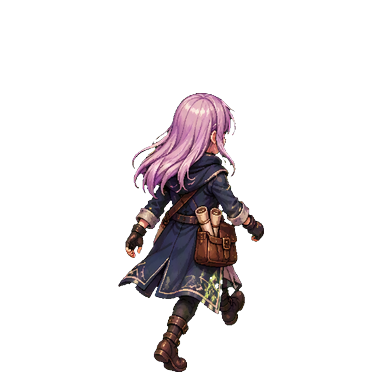
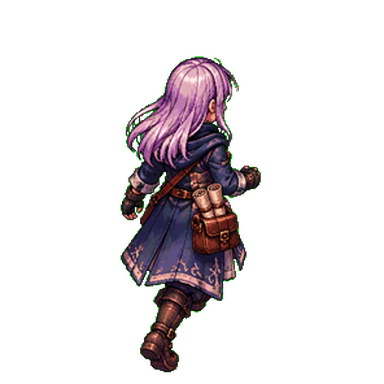
v97.96 Luna walks NE/SW: 13-frame village walk cycle
Slices the supplied 4x4 sheets into assets/village-town/npc/luna/{ne,sw}-walk1..13.webp (384x384 lossless), height matched to her stand sprite, feet on y=371, stray green key specks removed. SPR_INFO.luna.wn = {sw:13, ne:13}; SE/NW reuse them mirrored.

Changed region(s): [[0.3125, 0.125, 0.6875, 0.9688]]

diff --git a/village-town.html b/village-town.html
@@ -439,7 +439,7 @@ document.querySelectorAll('[data-game]').forEach(b=>b.onclick=()=>sendGame('menu
 
 document.addEventListener('pointerdown',()=>sendGame('input'),{capture:true});document.addEventListener('keydown',()=>sendGame('input'),{capture:true});
 rebuildRoads();heroRestore();renderList();fit();new ResizeObserver(fit).observe(stage);parent.postMessage({source:'project-a-town',type:'ready'},'*');document.fonts.ready.then(()=>terrainDirty=true);requestAnimationFrame(draw);const roadEdgeButton=$('roadEdgeStyle');if(roadEdgeButton){roadEdgeButton.onclick=()=>setRoadEdgeStyle(ROAD_EDGE_STYLE==='classic'?'texture':'classic');roadEdgeButton.textContent='ขอบถนน: '+(ROAD_EDGE_STYLE==='texture'?'ลายหินใหม่':'แบบเดิม');}
-</script><script src="js/village-layout-v67.js?v=82.14"></script><script src="js/village-grid.js?v=3"></script><script src="js/village-footprint.js?v=91.70"></script><script src="js/village-fence.js?v=1"></script><script src="js/town-ux.js?v=97.46"></script><script src="js/town-menu.js?v=72"></script><script src="js/village-biomes.js?v=72"></script><script src="js/village-forest.js?v=97.47"></script><script src="js/nature-alpha-masks.js"></script><script src="js/elements.js?v=97.50"></script><script src="js/world-state.js?v=97.76"></script><script src="js/villager-draw.js?v=97.90"></script><script src="js/village-life.js?v=97.76"></script><script src="js/village-lines.js?v=97.50"></script><script src="js/village-mind.js?v=97.34"></script><script src="js/town-npcs.js?v=97.40"></script><script src="js/town-quest.js?v=97.14"></script><script src="js/game-mood.js?v=74"></script><script src="js/hd2d.js?v=74"></script><script src="js/town-mood.js?v=91.74"></script><script src="js/village-frontage.js?v=83"></script><script src="js/proc-motion.js?v=81.8"></script><script src="js/github-push.js?v=97.93"></script><script src="js/village-asset-edit.js?v=97.47"></script><script>if(EDIT_PAGE&&window.TownPaint)GroundPaint.ui(TownPaint,{bar:()=>document.getElementById('townTools'),canvas:cv,toWorld:e=>world(e),before:()=>{TownUX.checkpoint();TownPaint.setClip?.(paintClip())},after:()=>TownUX.persist(),ensureEdit:()=>{if(!editing)$('edit').click()},onOpen:()=>{if(window.VillageAssetEdit?.placeId())VillageAssetEdit.leave();TownUX.setMode('object')}});</script><script src="js/editor-tools.js?v=91.77"></script><script src="js/asset-request.js?v=3"></script><script src="js/editor-auto.js?v=91.96"></script><script src="js/editor-layout.js?v=91.77"></script><script src="js/exit-edit.js?v=1"></script><script src="js/town-battle.js?v=97.78"></script><script src="js/console-ui.js?v=97.85"></script></html>
+</script><script src="js/village-layout-v67.js?v=82.14"></script><script src="js/village-grid.js?v=3"></script><script src="js/village-footprint.js?v=91.70"></script><script src="js/village-fence.js?v=1"></script><script src="js/town-ux.js?v=97.46"></script><script src="js/town-menu.js?v=72"></script><script src="js/village-biomes.js?v=72"></script><script src="js/village-forest.js?v=97.47"></script><script src="js/nature-alpha-masks.js"></script><script src="js/elements.js?v=97.50"></script><script src="js/world-state.js?v=97.76"></script><script src="js/villager-draw.js?v=97.96"></script><script src="js/village-life.js?v=97.76"></script><script src="js/village-lines.js?v=97.50"></script><script src="js/village-mind.js?v=97.34"></script><script src="js/town-npcs.js?v=97.40"></script><script src="js/town-quest.js?v=97.14"></script><script src="js/game-mood.js?v=74"></script><script src="js/hd2d.js?v=74"></script><script src="js/town-mood.js?v=91.74"></script><script src="js/village-frontage.js?v=83"></script><script src="js/proc-motion.js?v=81.8"></script><script src="js/github-push.js?v=97.93"></script><script src="js/village-asset-edit.js?v=97.47"></script><script>if(EDIT_PAGE&&window.TownPaint)GroundPaint.ui(TownPaint,{bar:()=>document.getElementById('townTools'),canvas:cv,toWorld:e=>world(e),before:()=>{TownUX.checkpoint();TownPaint.setClip?.(paintClip())},after:()=>TownUX.persist(),ensureEdit:()=>{if(!editing)$('edit').click()},onOpen:()=>{if(window.VillageAssetEdit?.placeId())VillageAssetEdit.leave();TownUX.setMode('object')}});</script><script src="js/editor-tools.js?v=91.77"></script><script src="js/asset-request.js?v=3"></script><script src="js/editor-auto.js?v=91.96"></script><script src="js/editor-layout.js?v=91.77"></script><script src="js/exit-edit.js?v=1"></script><script src="js/town-battle.js?v=97.78"></script><script src="js/console-ui.js?v=97.85"></script></html>
 
 
 <!-- Art sources and prompts: docs/ASSET_NOTES.txt. PNG objects are used for all buildings and props; roads and floor are native editable geometry. -->

diff --git a/index.html b/index.html
@@ -1,5 +1,5 @@
 <!doctype html><html lang="th"><head><meta charset="utf-8"><meta name="viewport" content="width=device-width,initial-scale=1"><meta name="theme-color" content="#f5ecd5"><title>Project A • ไพ่และการผจญภัย</title><link rel="stylesheet" href="css/style.css"><link rel="stylesheet" href="css/layout.css"><link rel="stylesheet" href="css/paper-cards.css"><link rel="stylesheet" href="css/game-ui.css"><link rel="stylesheet" href="css/workshop-layout.css"><link rel="stylesheet" href="css/combat-ui.css"><link rel="stylesheet" href="css/village.css"><link rel="stylesheet" href="css/location-actions.css"><link rel="stylesheet" href="css/journey.css"><link rel="stylesheet" href="css/interface-v02.css"><link rel="stylesheet" href="css/ivory-v03.css"><link rel="stylesheet" href="css/tactics.css?v=79"><link rel="stylesheet" href="css/polish-v05.css"><link rel="stylesheet" href="css/card-studio.css"><link rel="stylesheet" href="css/battle-full.css"><link rel="stylesheet" href="css/adventure.css"><link rel="stylesheet" href="css/hand-cards.css"><link rel="stylesheet" href="css/battle-polish.css"><link rel="stylesheet" href="css/battle-controls-v34.css"><link rel="stylesheet" href="css/battle-flow.css?v=76"><link rel="stylesheet" href="css/battle-card-flow.css"><link rel="stylesheet" href="css/battle-juice.css?v=56">
-<link rel="stylesheet" href="css/town-font.css"><link rel="stylesheet" href="css/title-screen.css?v=97.13"><link rel="stylesheet" href="css/story.css?v=97.11"><script src="js/touch.js?v=94.02"></script><script src="js/webp-redirect.js?v=92.04"></script><script src="js/game-version.js?v=97.95"></script><script src="js/title-screen.js?v=97.13"></script><style id="gameplay-no-editor-tools">
+<link rel="stylesheet" href="css/town-font.css"><link rel="stylesheet" href="css/title-screen.css?v=97.13"><link rel="stylesheet" href="css/story.css?v=97.11"><script src="js/touch.js?v=94.02"></script><script src="js/webp-redirect.js?v=92.04"></script><script src="js/game-version.js?v=97.96"></script><script src="js/title-screen.js?v=97.13"></script><style id="gameplay-no-editor-tools">
 /* In normal play, hide development-only battle controls. They remain available in Editor mode. */
 body:not(.editor-mode) #anchorToggle,
 body:not(.editor-mode) #anchorEditor,

diff --git a/js/villager-draw.js b/js/villager-draw.js
@@ -27,7 +27,7 @@
      (384×384, feet at y=372). v97.59: a direction without its own pictures uses the opposite one mirrored (SE←SW, NW←NE and back), so two directions are enough ·
      walk frames: 12 = a full 12-picture cycle (per-direction counts in wn; a direction with fewer pictures than its mirror uses the mirror's, flipped) · 4 = left contact, passing, right contact, passing · 2 = contact A, stand, contact B, stand · 1 = contact, stand, contact, stand · 0 = the standing picture with a bob.
      Falls back to the code-drawn figure until a standing picture has loaded. */
-  const SPR_INFO = { bram: { dirs: ['se', 'sw', 'ne', 'nw'], walk: 2, wn: { sw: 12, ne: 12 } }, luna: { dirs: ['se', 'sw', 'ne', 'nw'], walk: 1 }, kier: { dirs: ['se', 'sw', 'ne', 'nw'], walk: 0, wn: { sw: 12, ne: 12 } } }, dn = (info, d) => (info.wn && info.wn[d] != null ? info.wn[d] : info.walk), SPR = {}, MIR = { se: 'sw', sw: 'se', ne: 'nw', nw: 'ne' };
+  const SPR_INFO = { bram: { dirs: ['se', 'sw', 'ne', 'nw'], walk: 2, wn: { sw: 12, ne: 12 } }, luna: { dirs: ['se', 'sw', 'ne', 'nw'], walk: 1, wn: { sw: 13, ne: 13 } }, kier: { dirs: ['se', 'sw', 'ne', 'nw'], walk: 0, wn: { sw: 12, ne: 12 } } }, dn = (info, d) => (info.wn && info.wn[d] != null ? info.wn[d] : info.walk), SPR = {}, MIR = { se: 'sw', sw: 'se', ne: 'nw', nw: 'ne' };
   function sprites(name) {
     let S = SPR[name]; if (S) return S; S = SPR[name] = {}; const info = SPR_INFO[name]; if (!info || typeof Image === 'undefined') return S;
     for (const d of info.dirs) for (const k of ['stand', ...Array.from({ length: dn(info, d) }, (_, n) => 'walk' + (n + 1))]) { const im = new Image(); im.src = 'assets/village-town/npc/' + name + '/' + d + '-' + k + '.webp'; S[d + '-' + k] = im }

diff --git a/battle-field.html b/battle-field.html
@@ -7,7 +7,7 @@
 </style></head><body>
 <canvas id="world" aria-label="สนามรบ"></canvas>
 <script>window.FIELD_K=Math.min(2.5,Math.max(.6,+new URLSearchParams(location.search).get('k')||1.5))</script><script src="js/touch.js?v=94.02"></script><script src="js/asset-manifest.js?v=97.94"></script><script src="js/tactics-sprites.js?v=97.47"></script>
-<script src="js/hero-motion.js"></script><script src="js/world-state.js?v=97.76"></script><script src="js/villager-draw.js?v=97.90"></script><script src="js/village-life.js?v=97.76"></script>
+<script src="js/hero-motion.js"></script><script src="js/world-state.js?v=97.76"></script><script src="js/villager-draw.js?v=97.96"></script><script src="js/village-life.js?v=97.76"></script>
 <script src="js/terrain-height.js?v=96.00"></script><script src="js/terrain-height-art.js?v=96.00"></script><script src="js/field-diorama.js?v=97.01"></script><script src="js/field-host.js?v=97.15"></script>
 <script src="js/town-battle.js?v=97.78"></script>
 <script src="js/console-ui.js?v=97.85"></script></body></html>

diff --git a/editor.html b/editor.html
@@ -32,7 +32,7 @@ iframe[hidden]{display:none}
 </header>
 <div class="note" id="note"></div><div id="editorConflict" hidden role="status"></div>
 <main id="frames"></main>
-<script src="js/webp-redirect.js?v=92.04"></script><script src="js/game-version.js?v=97.95"></script><script src="js/game-settings.js?v=97.03"></script><script src="js/editor-deploy-status.js?v=91.45"></script><script src="js/game-dialog.js"></script><script src="js/github-push.js"></script><script>
+<script src="js/webp-redirect.js?v=92.04"></script><script src="js/game-version.js?v=97.96"></script><script src="js/game-settings.js?v=97.03"></script><script src="js/editor-deploy-status.js?v=91.45"></script><script src="js/game-dialog.js"></script><script src="js/github-push.js"></script><script>
 // Editor shell: every tool runs in its own frame; the game opens in "editor mode" (no play-save writes).
 // All tools share this browser's storage with the game — reload the game to see changes.
 const TABS=[

diff --git a/village-place.html b/village-place.html
@@ -1398,4 +1398,4 @@ setup();
 resize();
 send('ready');
 requestAnimationFrame(draw);
-</script><script src="js/place-build.js?v=87"></script><script src="js/world-state.js?v=97.76"></script><script src="js/villager-draw.js?v=97.90"></script><script src="js/village-life.js?v=97.76"></script><script src="js/village-lines.js?v=97.50"></script><script src="js/village-mind.js?v=97.34"></script><script src="js/place-people.js?v=97.69"></script><script src="js/editor-tools.js?v=91.77"></script></html>
+</script><script src="js/place-build.js?v=87"></script><script src="js/world-state.js?v=97.76"></script><script src="js/villager-draw.js?v=97.96"></script><script src="js/village-life.js?v=97.76"></script><script src="js/village-lines.js?v=97.50"></script><script src="js/village-mind.js?v=97.34"></script><script src="js/place-people.js?v=97.69"></script><script src="js/editor-tools.js?v=91.77"></script></html>

diff --git a/js/game-version.js b/js/game-version.js
@@ -2,6 +2,6 @@
    Major release: increment the main number (v80 → v81).
    Small patch (⬆ Push from an editor): increment the suffix counter (v81.13 → v81.14; treat it as a sequence, not a decimal).
    The commit message starts with the same version. Editor pushes bump the suffix automatically. */
-window.GAME_VERSION={v:'v97.95',date:'2026-10-31',repo:'ekkavish31/Project-Agrenor-Tactical-Card-Game'};
+window.GAME_VERSION={v:'v97.96',date:'2026-10-31',repo:'ekkavish31/Project-Agrenor-Tactical-Card-Game'};
 /* v91.94 · asset cache (sw.js): reloads reuse the ~60 MB of map images; a new version fetches them once; Ctrl+F5 refreshes the stored copies */
 try{if('serviceWorker' in navigator&&/^https?:$/.test(location.protocol))navigator.serviceWorker.register('sw.js?v='+encodeURIComponent(window.GAME_VERSION.v)).catch(()=>{})}catch(e){}

diff --git a/place-interior.html b/place-interior.html
@@ -7,7 +7,7 @@
 button{font:inherit;cursor:pointer}
 </style></head><body>
 <canvas id="room" aria-label="ภายในสถานที่"></canvas>
-<script src="js/world-state.js?v=97.76"></script><script src="js/touch.js?v=94.02"></script><script src="js/villager-draw.js?v=97.90"></script>
+<script src="js/world-state.js?v=97.76"></script><script src="js/touch.js?v=94.02"></script><script src="js/villager-draw.js?v=97.96"></script>
 <script src="js/village-life.js?v=97.76"></script>
 <script src="js/village-lines.js?v=97.50"></script>
 <script src="js/village-mind.js?v=97.34"></script>

diff --git a/docs/CHANGELOG-TH.md b/docs/CHANGELOG-TH.md
@@ -3092,3 +3092,8 @@ v35b: เปลี่ยนการหมุนสนามจาก crossfade 
 - กด **บันทึกเข้าเกม** ในหน้าต่าง "ตรวจและแก้แอนิเมชัน" เมื่อบันทึกสำเร็จ หน้าต่างจะปิดเอง (v97.92 ปิดแค่แผงลบเศษภาพ ตัวหน้าต่างยังค้าง)
 - ปิดเฉพาะเมื่อบันทึกสำเร็จจริง · ถ้าบันทึกไม่สำเร็จหรือจำนวนเฟรมไม่ตรง หน้าต่างยังเปิดพร้อมข้อความ · ปุ่ม "ลอกไปเป็น…/ลอกจาก…" ไม่ปิดหน้าต่าง
 - ภาพ B ที่ยังไม่กดใช้ยังเก็บเป็นงานร่างตามเดิม · ชุดทั่วไป (ไม่ใช่ท่าเดิน Hero) ขึ้นข้อความ "บันทึกชุดที่แก้แล้ว" เพราะข้อความสถานะอยู่ในหน้าต่างที่ปิดไป
+
+## v97.96 · ลูน่าเดิน NE/SW 13 เฟรม (31 ต.ค. 2026)
+- `assets/village-town/npc/luna/<ne|sw>-walk1..13.webp` ชุดเดินเต็มวงรอบ 13 เฟรมต่อทิศ (384×384 WebP lossless) · ตัดจากชีท 4×4 ที่ส่งมา · ลบจุดเขียวที่ค้างจากการตัดพื้นหลัง (เฉพาะจุดเล็กที่ลอยแยกจากตัว)
+- ขนาดตัวละครปรับให้เท่าภาพยืนของลูน่า (สูง ~304px) และเท้าอยู่เส้นพื้นเดียวกับภาพยืน (y=371) จึงไม่มีตัวโตขึ้น/ลอยตอนเริ่มเดิน-หยุดเดิน
+- `js/villager-draw.js`: `SPR_INFO.luna.wn = { sw: 13, ne: 13 }` · SE ใช้ภาพ SW กลับด้าน และ NW ใช้ภาพ NE กลับด้านเอง · `ne-walk1`/`sw-walk1` เดิม (เฟรมก้าวเดียว) ถูกแทนด้วยเฟรมแรกของชุดใหม่
